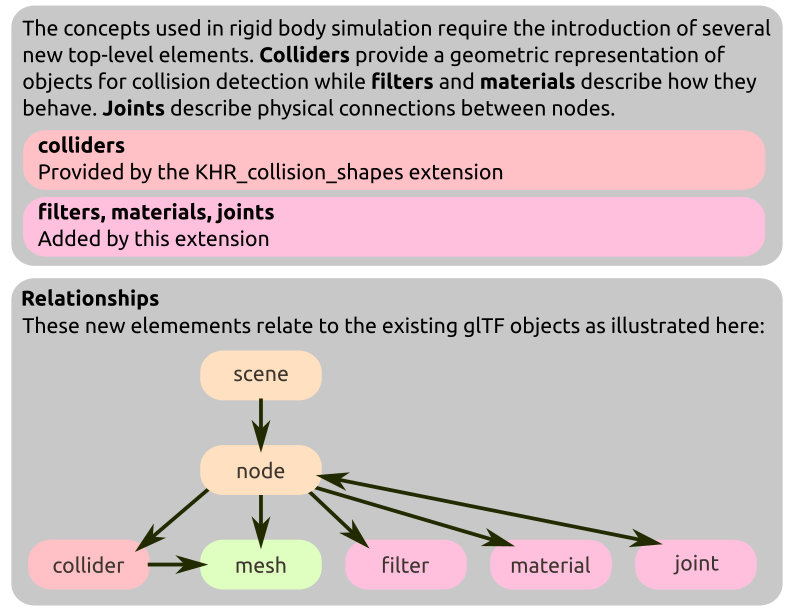
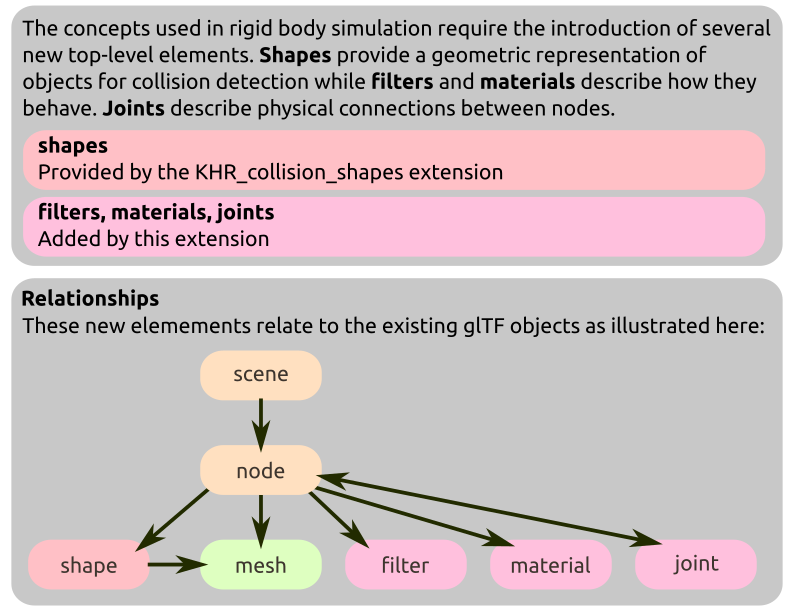
Rename collider -> shape

Changed region(s): [[0.3325, 0.0621, 0.9068, 0.1242], [0.0605, 0.9003, 0.1511, 0.9624], [0.0302, 0.2173, 0.1511, 0.2484]]

diff --git a/extensions/2.0/Khronos/KHR_collision_shapes/README.md b/extensions/2.0/Khronos/KHR_collision_shapes/README.md
@@ -14,16 +14,13 @@ This extension adds the ability to specify collision primitives inside a glTF as
 
 ## glTF Schema Updates
 
-### Colliders
+### Shapes
 
-This extension provides a set of document-level objects, which can be referenced by objects in the scene. The precise usage of these collider primitives should be specified by the extensions which utilize the colliders. In general, these colliders are used to specify geometry which can be used for collision detection. Typically, the geometry specified by the collider will be simpler than any render meshes used by the node or it's children, enabling real-time applications to perform queries such as intersection tests.
+This extension provides a set of document-level objects, which can be referenced by objects in the scene. The precise usage of these primitives should be specified by the extensions which utilize the shapes. The intended purpose of these these objects are to specify geometry which can be used for collision detection, which has informed the set of shapes which we have defined.. Typically, the geometry specified by the shape will be simpler than any render meshes used by the node or it's children, enabling real-time applications to perform queries such as intersection tests.
 
-Implementations of this extension should ensure that collider transforms are always kept in sync with node transforms - for example animated node transforms should be applied to the applications' internal representation of the collision geometry.
+Each shape defines a mandatory `type` property that designates the type of shape, as well as an additional structure which provides parameterizations specific to that type.
 
-
-Each collider defines a mandatory `type` property that designates the type of collider, as well as an additional structure which provides parameterizations specific to that type.
-
-To describe the shape that represents this node, should use, colliders must define at most one of the following properties:
+To describe the geometry which represents the object, shapes must define at most one of the following properties:
 
 | |Type|Description|
 |-|-|-|
@@ -34,9 +31,9 @@ To describe the shape that represents this node, should use, colliders must defi
 |**convex**|`object`|A convex hull wrapping a `mesh` object.|
 |**trimesh**|`object`|A triangulated representation of a `mesh` object.|
 
-The sphere, box, capsule, cylinder and convex types all represent convex objects with a volume, however, the trimesh type always represents an infinitely thin shell or sheet - for example a trimesh collider created from a `mesh` object in the shape of a box will be represented as a hollow box.
+The sphere, box, capsule, cylinder and convex types all represent convex objects with a volume, however, the trimesh type always represents an infinitely thin shell or sheet - for example a trimesh created from a `mesh` object in the shape of a box will be represented as a hollow box.
 
-If you want your collider to have an offset from the local space (for example a sphere _not_ centered at local origin, or a rotated box), you should add an extra node to the hierarchy and apply your transform and your collider properties to that.
+If you want your shape to have an offset from the local space of the node the shape is associated with (for example a sphere _not_ centered at local origin, or a rotated box), you should add an extra node to the hierarchy and apply your transform and your shape properties to that.
 
 ### JSON Schema
 

diff --git a/extensions/2.0/Khronos/KHR_rigid_bodies/README.md b/extensions/2.0/Khronos/KHR_rigid_bodies/README.md
@@ -72,11 +72,11 @@ Rigid body motions have the following properties:
 
 ### Colliders
 
-To specify the geometry used to perform collision detection, we use the KHR\_collision\_shapes extension. To add collision geometry and enable a node to generate impulses from collision detection, a node's `collider` property is used. This property supplies three fields; the `collider` property indexes into the set of top level collision primitives and describes the collision volume used by that node, while the `physicsMaterial` indexes into the top level set of physics materials (see the "Collision Response" section of this document) and the `collisionFilter` indexes into the top level set of collision filters (see the "Collision Filtering" section of this document).
+To specify the geometry used to perform collision detection, we use the KHR\_collision\_shapes extension. To add collision geometry and enable a node to generate impulses from collision detection, a node's `collider` property is used. This property supplies three fields; the `collider` property indexes into the set of top level collision shapes and describes the collision volume used by that node, while the `physicsMaterial` indexes into the top level set of physics materials (see the "Collision Response" section of this document) and the `collisionFilter` indexes into the top level set of collision filters (see the "Collision Filtering" section of this document).
 
 | |Type|Description|
 |-|-|-|
-|**collider**|`integer`|The index of a top level `Collider`, which provides the geometry of the shape.|
+|**shape**|`integer`|The index of a top level `Shape`, which provides the geometry of the shape.|
 |**physicsMaterial**|`integer`|Indexes into the top level `physicsMaterials` and describes the collision response of the material which the collider is made from.|
 |**collisionFilter**|`integer`|Indexes into the top level `collisionFilters` and describes a filter which determines if this collider should perform collision detection against another collider.|
 
